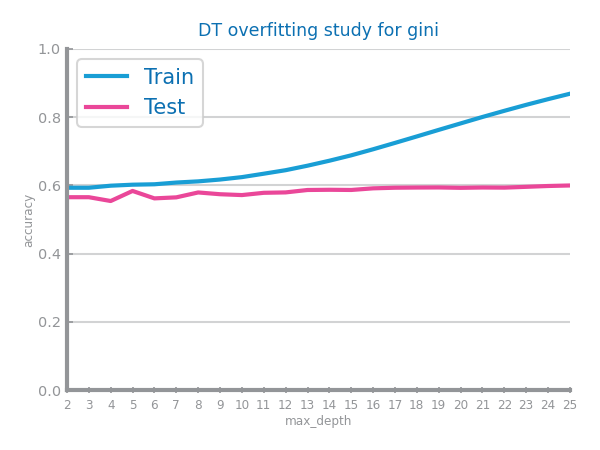
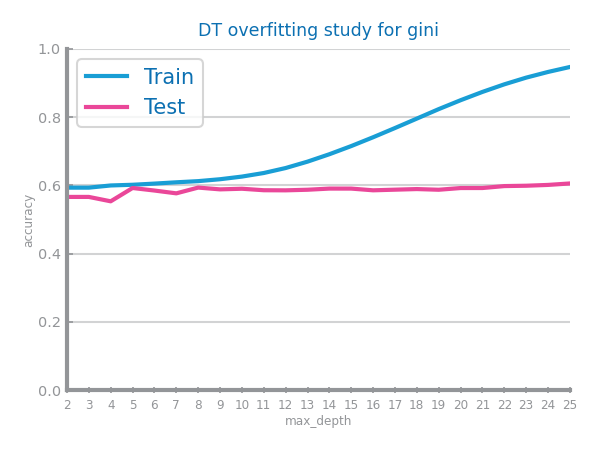
feat: DT without sampling.

diff --git a/classification/models/pos_covid/decision_trees.py b/classification/models/pos_covid/decision_trees.py
@@ -12,8 +12,7 @@ test_filename = "../../data/pos_covid/processed_data/class_pos_covid_test_lowvar
 pos_covid_file_tag: str = "class_pos_covid"
 target = "CovidPos"
 
-# Relatively quick to run without sampling: < 10 minutes
-run_sampling = True
+run_sampling = False
 sampling_amount = 0.01 if run_sampling else 1
 
 sample_tag = f"_1_{int(1 / sampling_amount)}th" if run_sampling else ""
@@ -96,7 +95,7 @@ if run_variables_importance:
         imp_values += [importances[indices[f]]]
         print(f"{f + 1}. {elems[f]} ({importances[indices[f]]})")
 
-    plt.figure()  # TODO: Do not change this figure size until data preparation is finished
+    plt.figure(figsize=(5, 6))
     plot_horizontal_bar_chart(
         elems,
         imp_values,

diff --git a/classification/models/credit_score/decision_trees.py b/classification/models/credit_score/decision_trees.py
@@ -12,7 +12,7 @@ test_filename = "../../data/credit_score/processed_data/class_credit_score_test_
 credit_score_file_tag: str = "class_credit_score"
 target = "Credit_Score"
 
-run_sampling = True
+run_sampling = False
 sampling_amount = 0.01 if run_sampling else 1
 sample_tag = f"_1_{int(1 / sampling_amount)}th" if run_sampling else ""
 
@@ -95,7 +95,7 @@ if run_variables_importance:
         imp_values += [importances[indices[f]]]
         print(f"{f + 1}. {elems[f]} ({importances[indices[f]]})")
 
-    plt.figure()  # TODO: Do not change this figure size until data preparation is finished
+    plt.figure(figsize=(5, 3))
     plot_horizontal_bar_chart(
         elems,
         imp_values,
